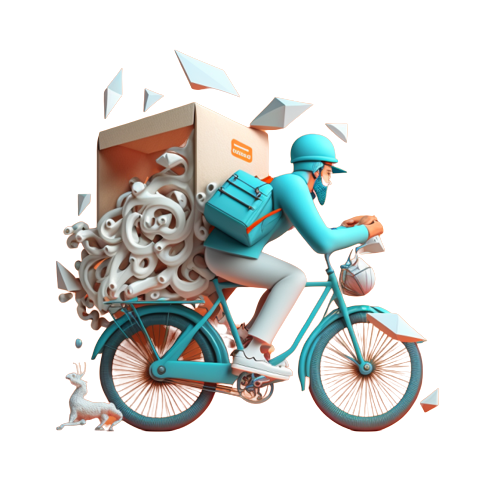
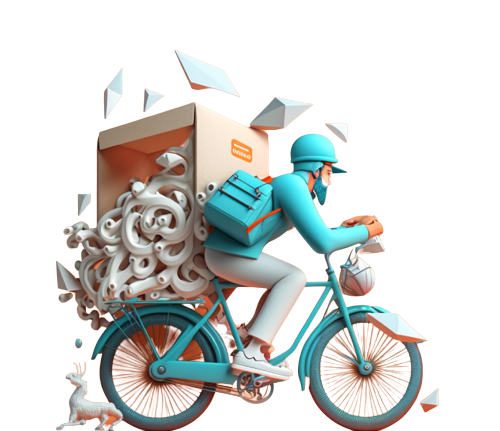
home base + nav

diff --git a/components/navigation/index.tsx b/components/navigation/index.tsx
@@ -1,70 +1,32 @@
 'use client';
 
 import Link from 'next/link';
-import Image from 'next/image';
+import { FontAwesomeIcon } from '@fortawesome/react-fontawesome';
+import { faFire } from '@fortawesome/free-solid-svg-icons';
+import Button from 'components/button';
 import { useState } from 'react';
-import { Transition, Menu } from '@headlessui/react';
-import { Bars3Icon } from '@heroicons/react/20/solid';
-import userImg from './../../public/images/user.png';
-
-const routes = [
-  { href: '/', name: 'Home' },
-  { href: '/categories', name: 'Categories' },
-  { href: '/orders', name: 'Orders' },
-  { href: '/testing', name: 'Testing' },
-];
 
 export default function Navigation() {
-  const [toggle, setToggle] = useState<boolean>(false);
+  const [login, setLogin] = useState<boolean>(false);
   return (
-    <nav className="max-w-7xl mx-auto w-full p-4 flex justify-between">
-      <Link href="/account">
-        <Image
-          src={userImg}
-          alt="User image"
-          placeholder="blur"
-          className="w-10 h-10"
-        />
+    <nav className="max-w-7xl mx-auto w-full p-4 flex justify-between items-center z-20">
+      <Link href="/" className="flex items-start text-medium gap-1">
+        <FontAwesomeIcon icon={faFire} className="text-2xl" />
+        <h1 className="font-bold text-xl">RocketFood</h1>
       </Link>
-      <Menu as="div" className="relative inline-block z-1">
-        <div>
-          <Menu.Button
-            className="inline-flex w-full justify-center rounded-md bg-black bg-opacity-20 px-2 py-2 text-sm font-medium text-white hover:bg-opacity-30 focus:outline-none focus-visible:ring-2 focus-visible:ring-white focus-visible:ring-opacity-75 drop-shadow-2xl"
-            onClick={() => setToggle(!toggle)}
-          >
-            <Bars3Icon
-              className=" h-5 w-5 text-violet-200 hover:text-violet-100"
-              aria-hidden="true"
-            />
-          </Menu.Button>
-        </div>
-        <Transition
-          show={toggle}
-          enter="transition ease-out duration-100"
-          enterFrom="transform opacity-0 scale-95"
-          enterTo="transform opacity-100 scale-100"
-          leave="transition ease-in duration-75"
-          leaveFrom="transform opacity-100 scale-100"
-          leaveTo="transform opacity-0 scale-95"
-        >
-          <Menu.Items className="absolute right-0 mt-2 w-32 origin-top-right divide-y divide-gray-100 rounded-md bg-white shadow-lg ring-1 ring-black ring-opacity-5 focus:outline-none flex flex-col">
-            {routes.map((item) => (
-              <Menu.Item key={item.name}>
-                {({ active }) => (
-                  <Link
-                    className={`${
-                      active ? 'bg-[#70c4bc] text-white' : 'text-gray-900'
-                    } group flex w-full items-center rounded-md px-2 py-2 text-sm`}
-                    href={item.href}
-                  >
-                    {item.name}
-                  </Link>
-                )}
-              </Menu.Item>
-            ))}
-          </Menu.Items>
-        </Transition>
-      </Menu>
+      {login ? (
+        <Link href="/account" className="w-24">
+          <Button callToAction fullSize>
+            Menu
+          </Button>
+        </Link>
+      ) : (
+        <Link href="/account" className="w-24">
+          <Button callToAction fullSize>
+            Login
+          </Button>
+        </Link>
+      )}
     </nav>
   );
 }

diff --git a/components/button/index.tsx b/components/button/index.tsx
@@ -1,0 +1,61 @@
+'use client';
+
+import clsx from 'clsx';
+import { useEffect, useState } from 'react';
+import './button.css';
+
+type BoutonType = {
+  children: string;
+  callToAction?: boolean;
+  fullSize?: boolean;
+  onClick?: (event: React.MouseEvent<HTMLElement>) => void;
+};
+
+type CoordsType = {
+  x: number;
+  y: number;
+};
+
+const Button = ({ children, callToAction, fullSize, onClick }: BoutonType) => {
+  const [coords, setCoords] = useState<CoordsType>({ x: -1, y: -1 });
+  const [isRippling, setIsRippling] = useState<boolean>(false);
+
+  useEffect(() => {
+    if (coords.x !== -1 && coords.y !== -1) {
+      setIsRippling(true);
+      setTimeout(() => setIsRippling(false), 300);
+    } else setIsRippling(false);
+  }, [coords]);
+
+  useEffect(() => {
+    if (!isRippling) setCoords({ x: -1, y: -1 });
+  }, [isRippling]);
+  return (
+    <button
+      className={clsx(
+        'relative overflow-hidden transition duration-300 py-2 px-6 outline-none rounded-3xl drop-shadow-md cursor-pointer text-white font-medium text-lg after:absolute after:w-full after:h-full after:bg-dark/30 after:top-0 after:left-0 after:opacity-0 after:transition-all after:duration-200 hover:after:opacity-100 hover:scale-95',
+        fullSize ? 'w-full' : 'w-10',
+        callToAction ? 'bg-blue-gradient' : 'border border-primary'
+      )}
+      onClick={(e) => {
+        const rect = e.currentTarget.getBoundingClientRect();
+        setCoords({ x: e.clientX - rect.left, y: e.clientY - rect.top });
+        onClick && onClick(e);
+      }}
+    >
+      {isRippling && (
+        <span
+          className="ripple -translate-x-1/2 -translate-y-1/2"
+          style={{
+            left: coords.x,
+            top: coords.y,
+          }}
+        />
+      )}
+
+      <span className="content select-none">{children}</span>
+    </button>
+  );
+};
+
+export default Button;

diff --git a/components/button/button.css b/components/button/button.css
@@ -1,0 +1,47 @@
+.bg-blue-gradient {
+  background: linear-gradient(
+    157.81deg,
+    #5d6969 -43.27%,
+    #536868 -21.24%,
+    #3b5757 12.19%,
+    #304d4d 29.82%,
+    #244242 51.94%,
+    #183434 90.29%
+  );
+}
+.bg-primary-gradient {
+  background: linear-gradient(
+    157.81deg,
+    #f8d2d7 -43.27%,
+    #e7b6bc -21.24%,
+    #db8892 12.19%,
+    #e97381 29.82%,
+    #eb596a 51.94%,
+    #ed3f54 90.29%
+  );
+}
+
+.ripple {
+  width: 100px;
+  height: 100px;
+  position: absolute;
+  background: #2c2b2b8a;
+  display: block;
+  content: '';
+  border-radius: 50%;
+  opacity: 1;
+  transform: scale(0);
+  animation: ripple 600ms linear;
+}
+
+@keyframes ripple {
+  to {
+    transform: scale(4);
+    opacity: 0;
+  }
+}
+
+.content {
+  position: relative;
+  z-index: 2;
+}

diff --git a/app/page.tsx b/app/page.tsx
@@ -3,13 +3,16 @@ import deliverImg from './../public/images/deliver.png';
 
 export default function Page() {
   return (
-    <div className="shadow-bottom">
-      <Image
-        src={deliverImg}
-        alt="Deliver image"
-        placeholder="blur"
-        className="mx-auto mt-moins10 shadow-img drop-shadow-2xl"
-      />
-    </div>
+    <section className="relative w-full">
+      <div className="-translate-y-96 flex flex-col items-center">
+        <Image
+          src={deliverImg}
+          alt="Deliver image"
+          placeholder="blur"
+          className="w-full h-full"
+        />
+        <span className="bg-gradient-to-r from-transparent via-black to-transparent w-full mx-auto h-1 blur-sm" />
+      </div>
+    </section>
   );
 }

diff --git a/app/layout.tsx b/app/layout.tsx
@@ -7,13 +7,11 @@ type RootLayoutType = {
 
 export default function RootLayout({ children }: RootLayoutType) {
   return (
-    <html lang="fr">
+    <html lang="en">
       <head></head>
-      <body className="relative bg-gray-50 dark:bg-[#70c4bc] ">
+      <body className="relative bg-primary min-h-screen flex flex-col gap-72">
         <Navigation />
-        <div className="flex flex-col h-vh65 px-4 bg-[#f8fcfc] w-90% rounded-md m-auto mt-24">
-          {children}
-        </div>
+        <div className="bg-light grow">{children}</div>
       </body>
     </html>
   );

diff --git a/tailwind.config.js b/tailwind.config.js
@@ -8,6 +8,12 @@ module.exports = {
   ],
   theme: {
     extend: {
+      colors: {
+        primary: '#70c4bc',
+        light: '#f8fcfc',
+        medium: '#183434',
+        dark: '#00040f',
+      },
       width: {
         '90%': '90%',
       },
